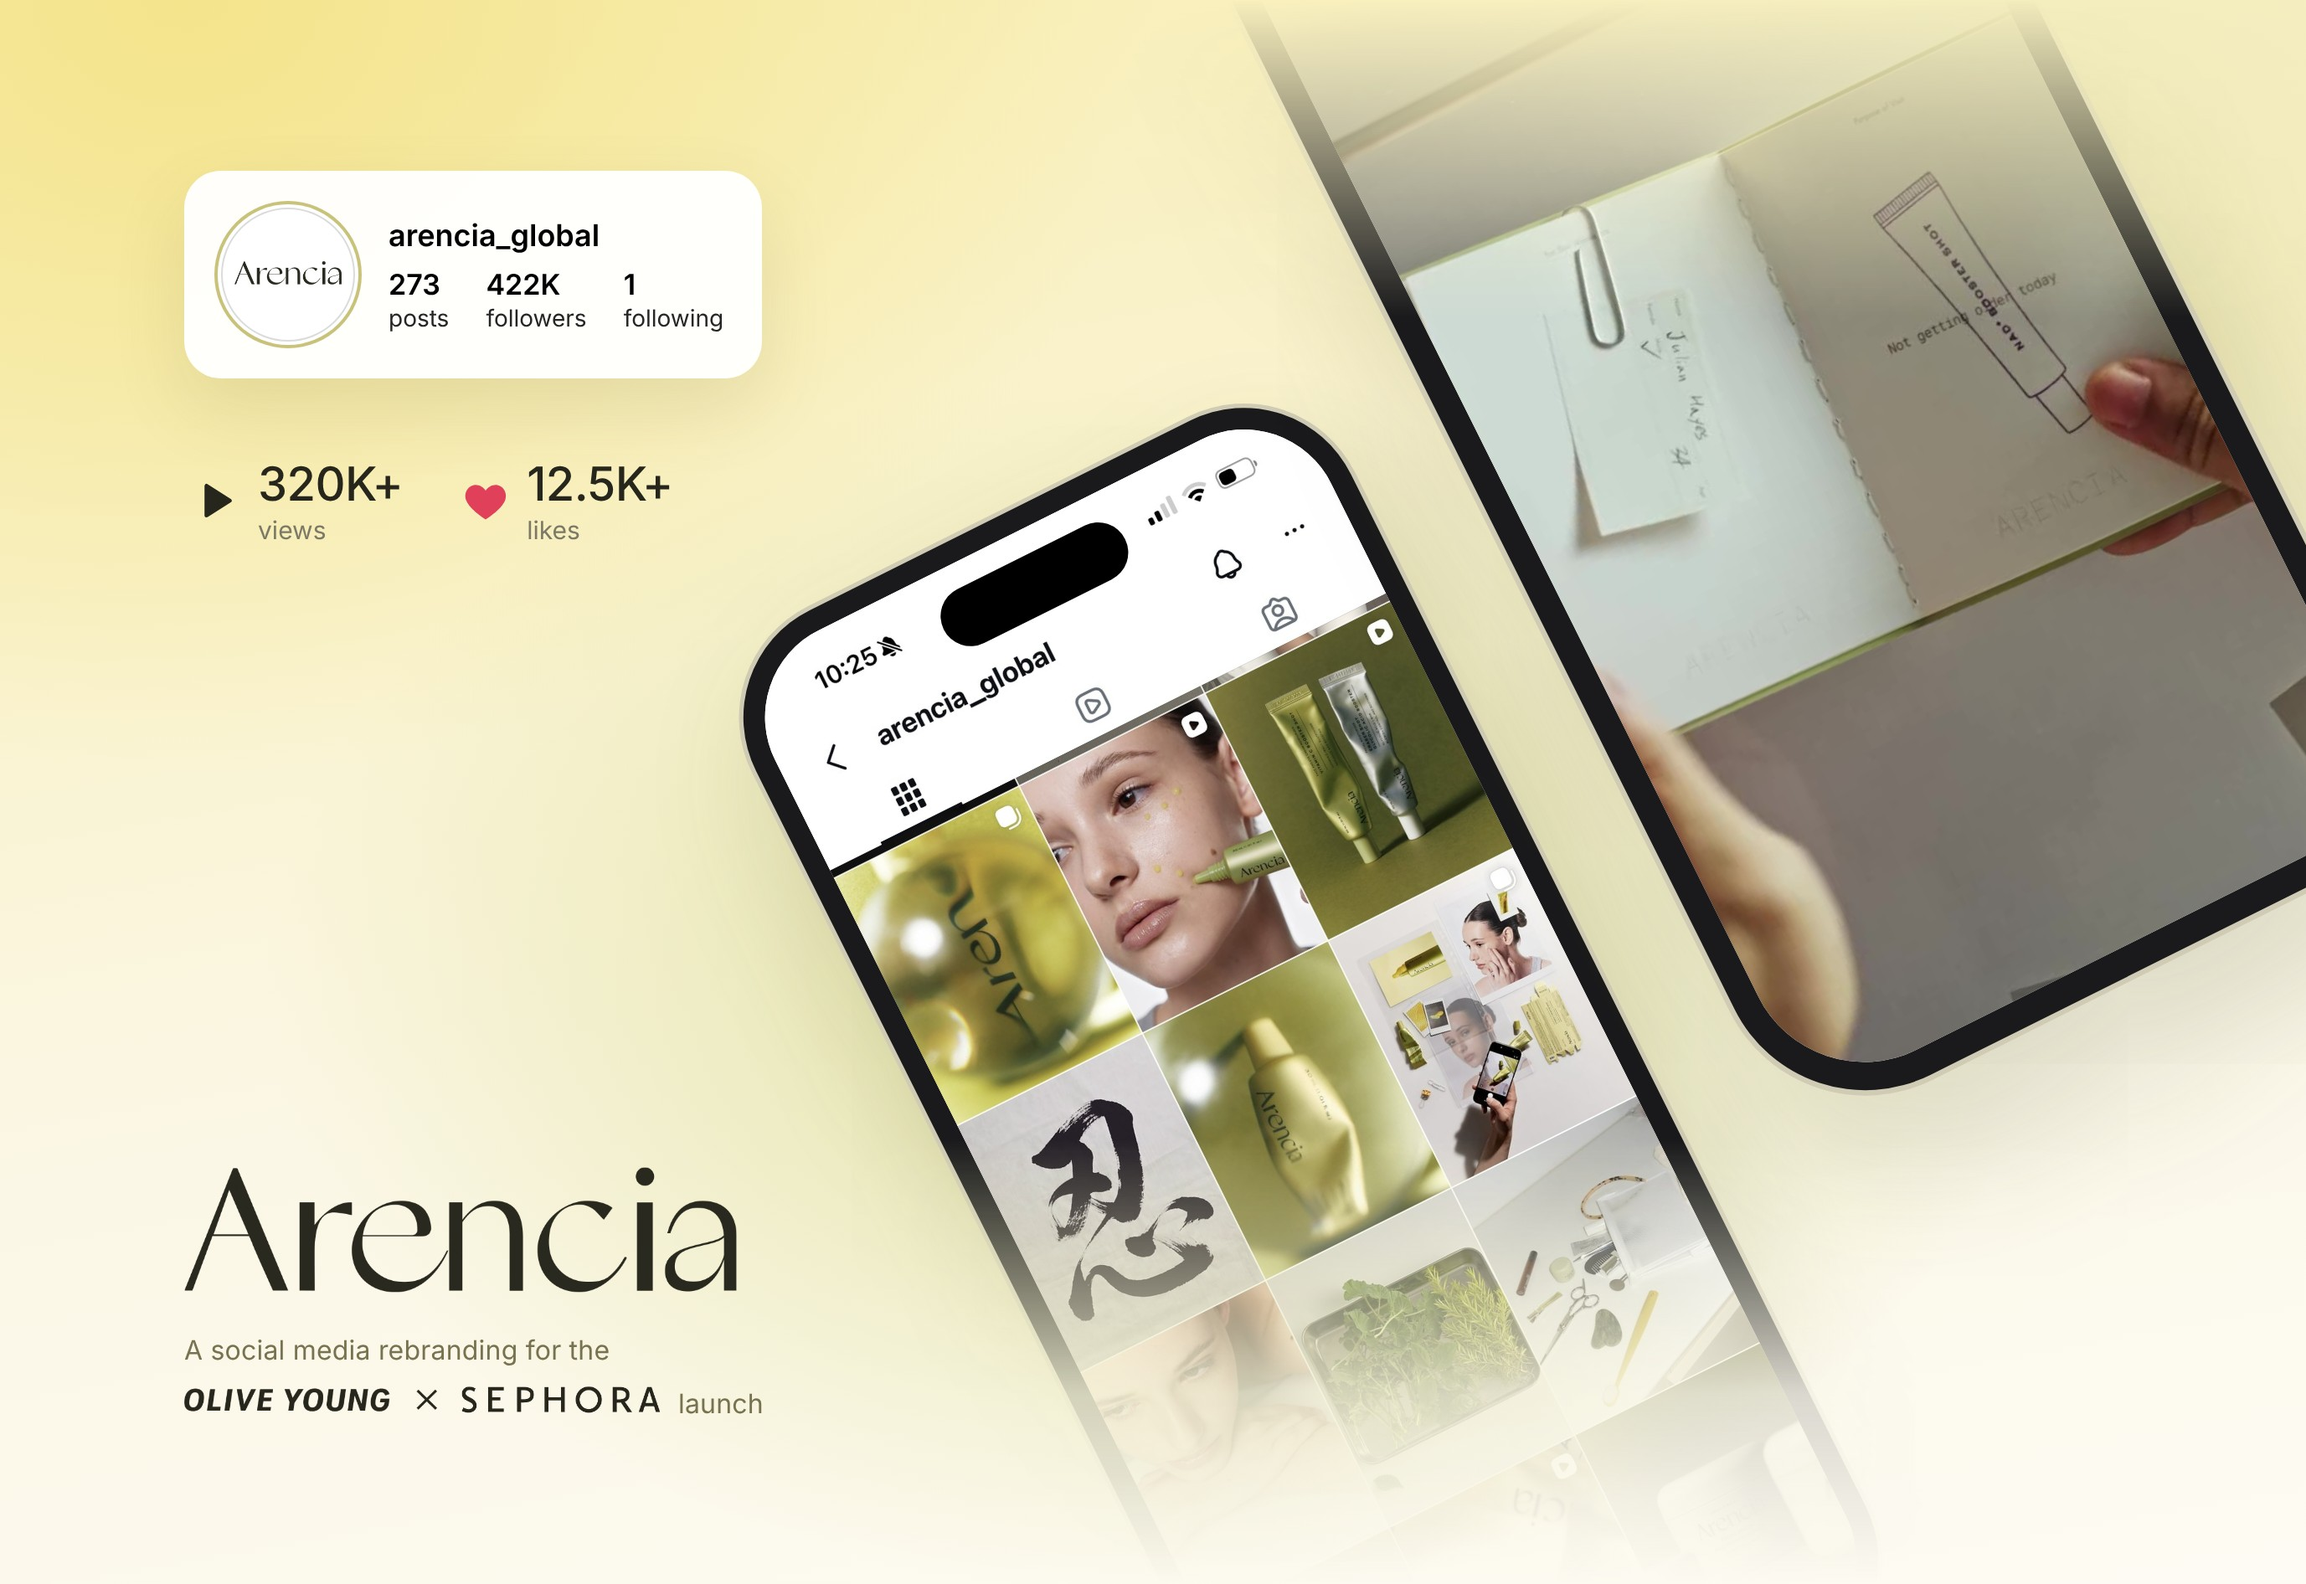
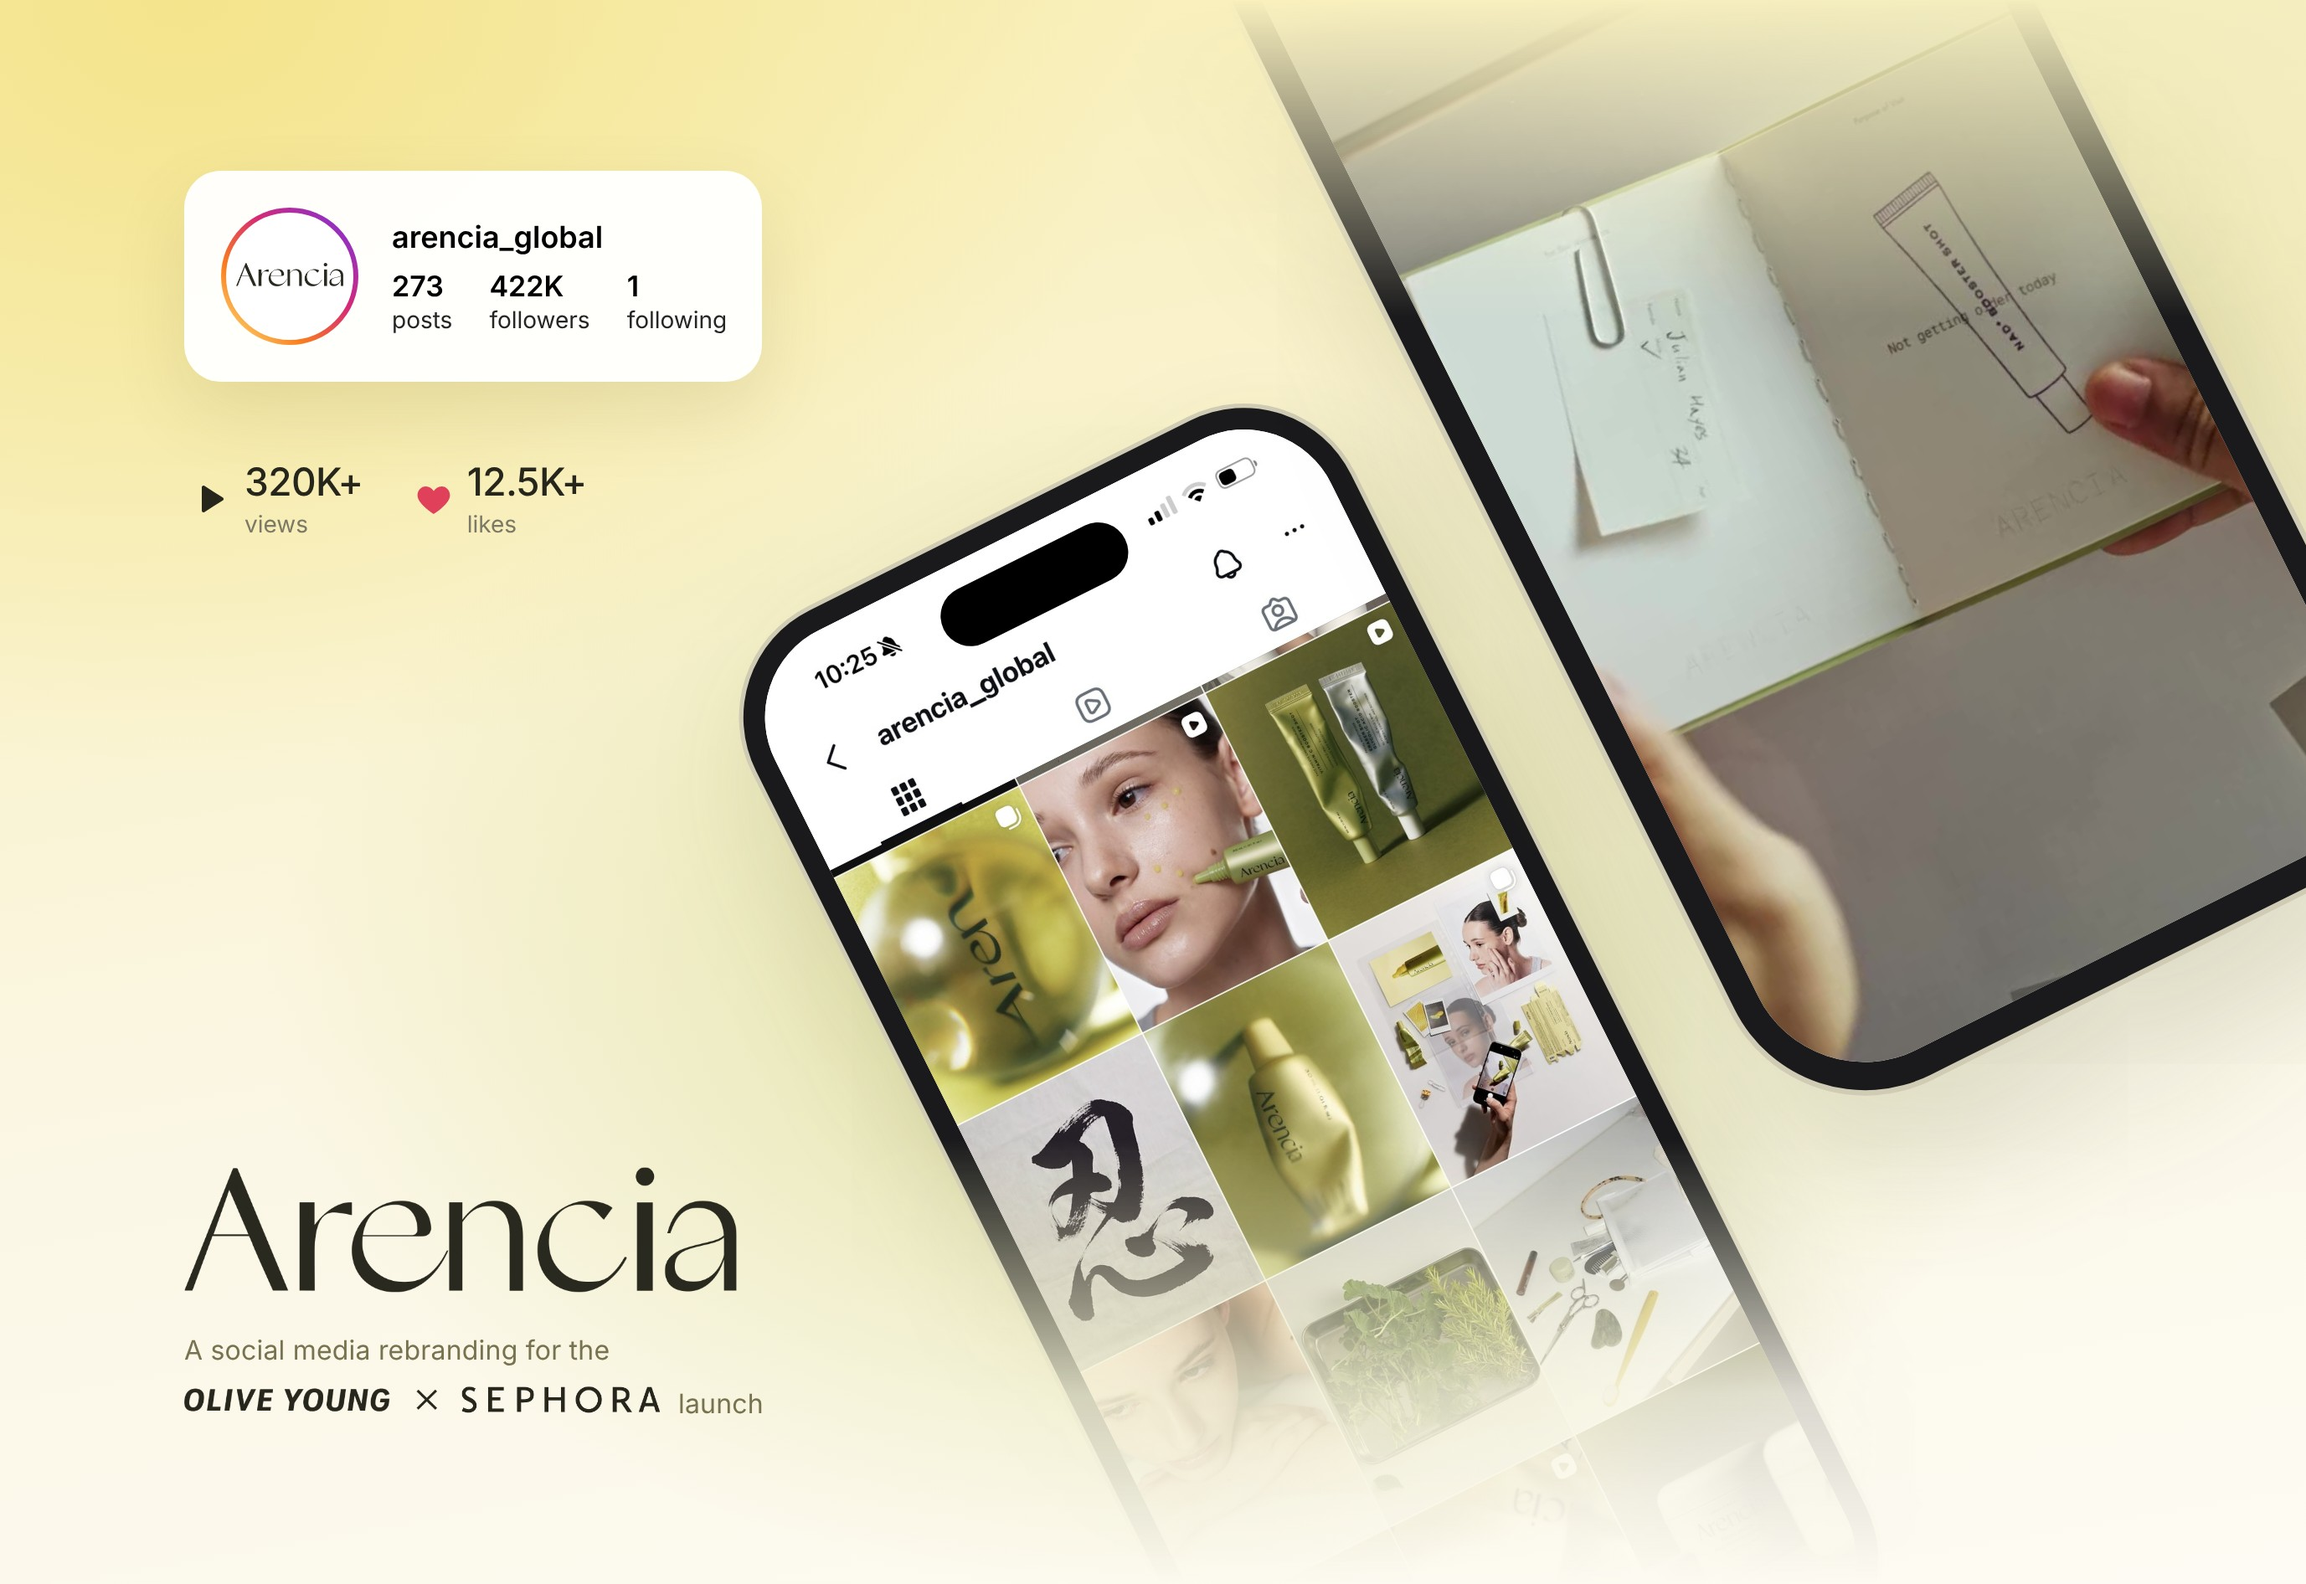
Home: smaller Arencia views/likes and an Instagram story ring (#22)
* Home: slightly smaller Arencia views and likes

Icons 30 to 24px, numbers 28 to 23px.

Claude-Session: https://claude.ai/code/session_01PJkMotC6Nz8qWguHKxjy1y

* Home: Instagram story ring on the Arencia avatar

Swaps the gold ring for Instagram's yellow-orange-pink-purple story gradient.

Claude-Session: https://claude.ai/code/session_01PJkMotC6Nz8qWguHKxjy1y

---------

Changed region(s): [[0.0937, 0.1247, 0.3123, 0.2183], [0.0937, 0.2807, 0.281, 0.343]]

diff --git a/index.html b/index.html
@@ -60,7 +60,7 @@
 
       <a class="project" href="arencia-site/index.html">
         <div class="project__media project__media--arencia">
-          <img src="arencia-site/images/cover.jpg?v=12" width="1377" height="946"
+          <img src="arencia-site/images/cover.jpg?v=13" width="1377" height="946"
             alt="Arencia cover: the @arencia_global Instagram profile (273 posts, 422K followers) with 320K+ views and 12.5K+ likes, two tilted phones showing the rebranded Instagram grid and the Booster Shot video, and the Arencia logo with 'A social media rebranding for the Olive Young x Sephora launch'">
           <video class="project__hover" data-src="arencia-site/images/hover.mp4?v=1" muted playsinline loop preload="none" aria-hidden="true"></video>
         </div>
